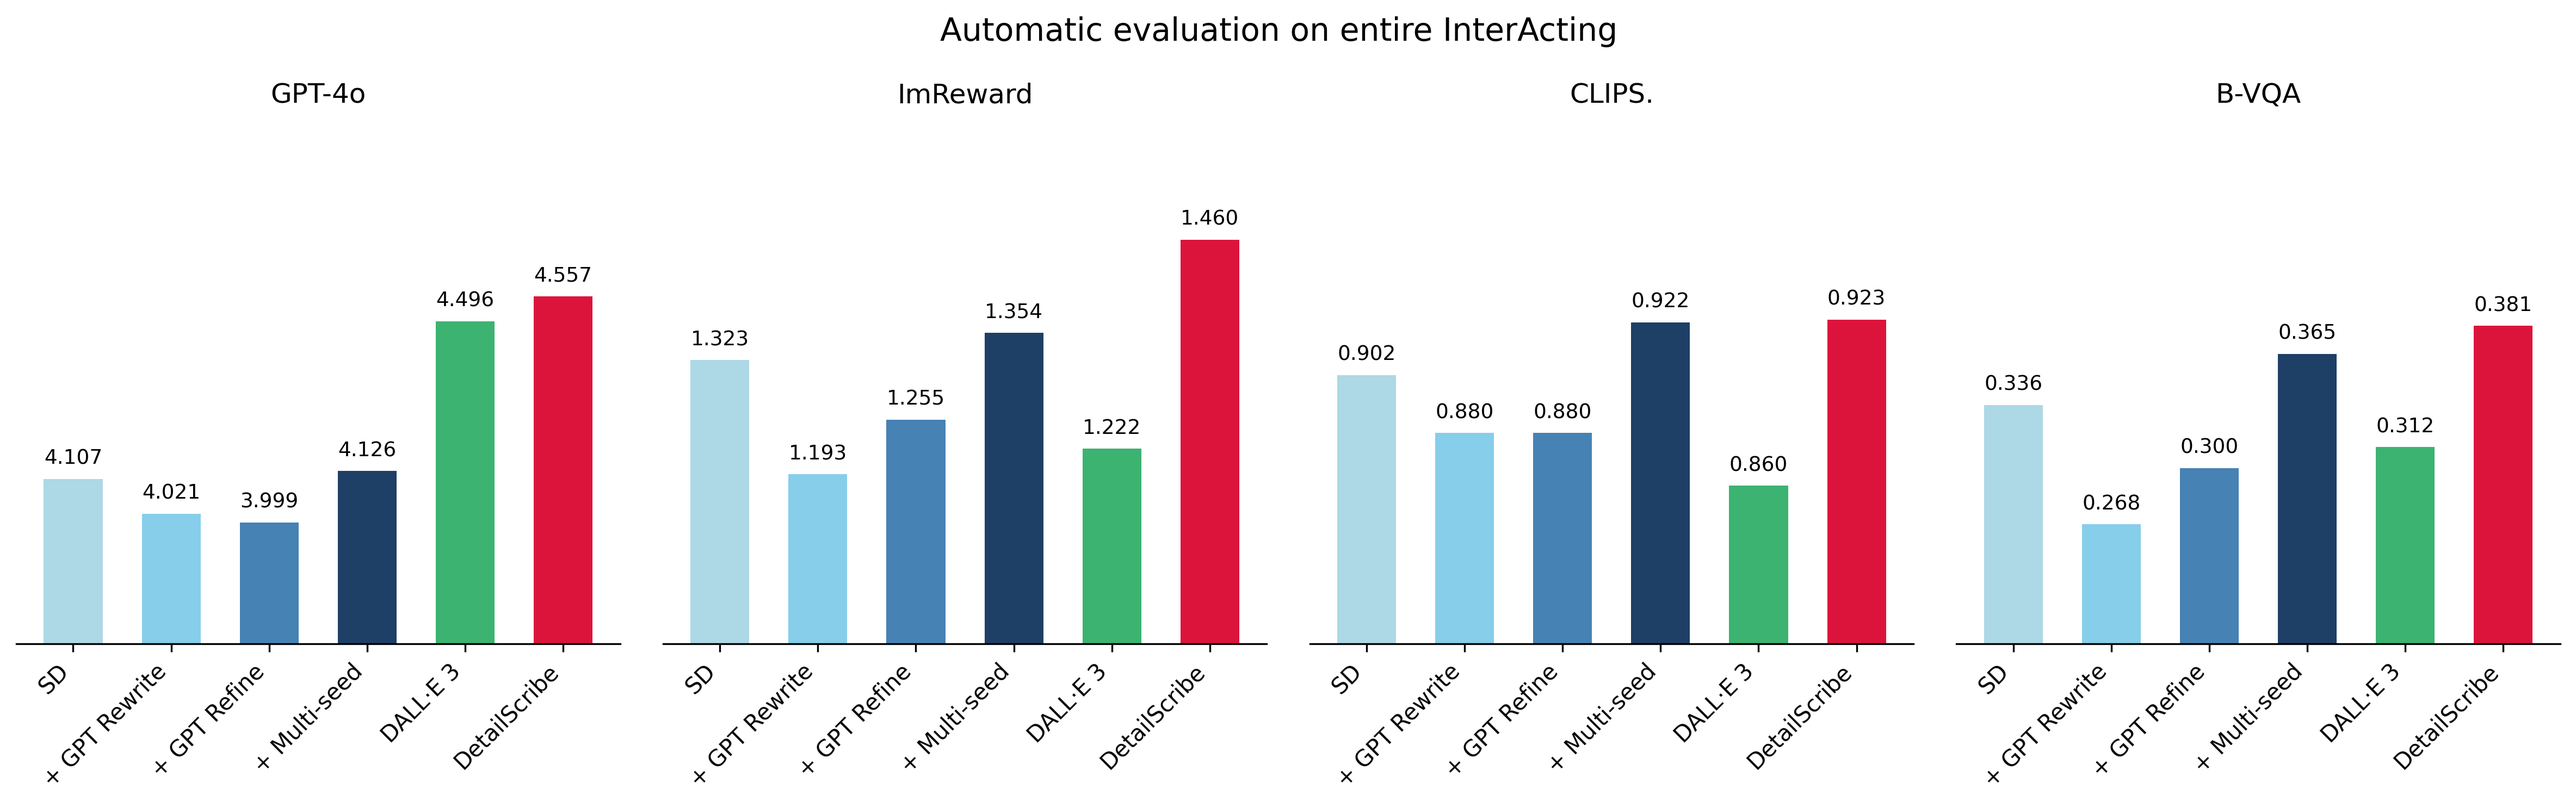
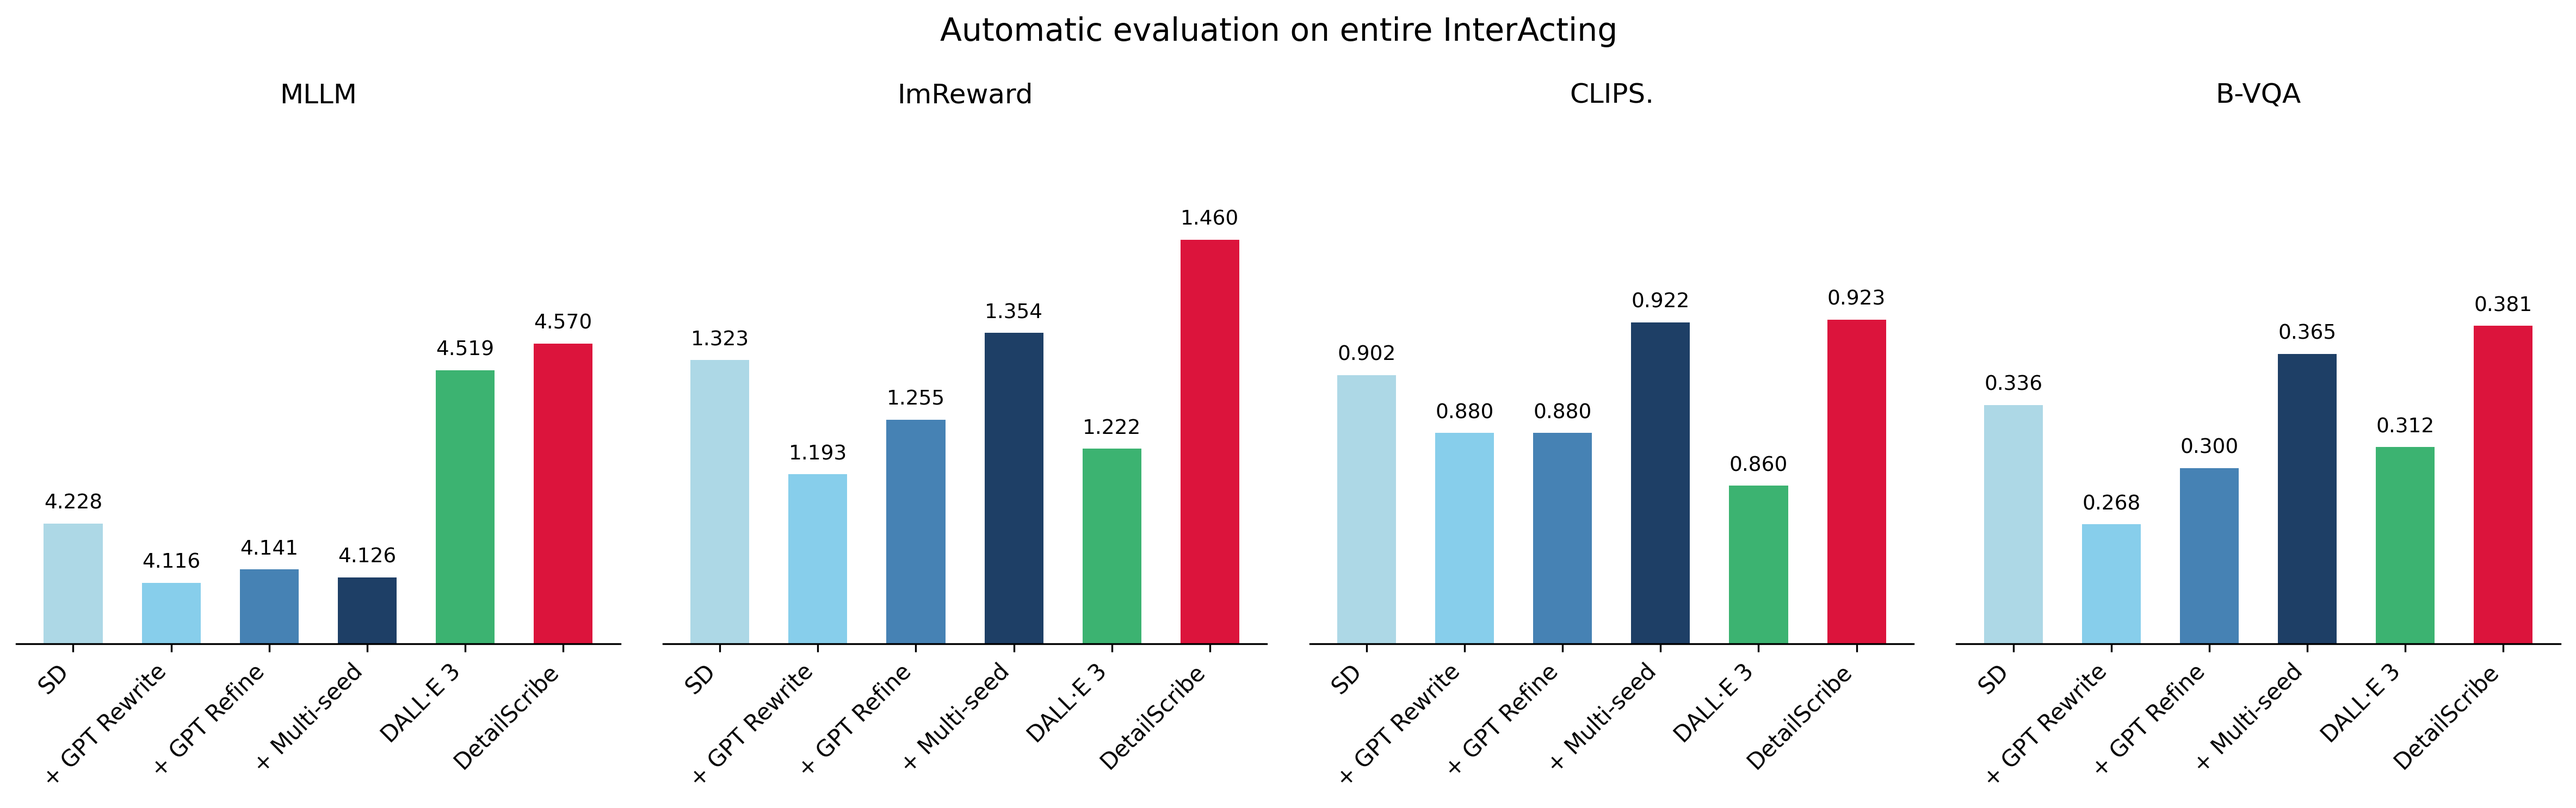
update

Changed region(s): [[0.0, 0.5572, 0.1552, 0.7429], [0.1552, 0.3405, 0.2484, 0.4643], [0.0931, 0.0929, 0.1552, 0.1238]]

diff --git a/index.html b/index.html
@@ -173,7 +173,7 @@
             Our approach, <strong>DetailScribe</strong>,
             built on Stable Diffusion 3.5,
             leverages LLMs to decompose interactions into finer-grained concepts,
-            uses a VLM to critique generated images,
+            uses a MLLM to critique generated images,
             and applies targeted interventions within the diffusion process in refinement.
             Automatic and human evaluations show significantly improved image quality,
             demonstrating the potential of enhanced inference strategies.
@@ -235,13 +235,13 @@
           <p>
             Due to the challenges in assessing whether an image aligns with the prompt's description,
             we primarily rely on human evaluation, referred to as the <strong>human Likert scale</strong>.
-            We further explored the use of VLMs and pre-trained metrics for automatic evaluation purposes
+            We further explored the use of MLLMs and pre-trained metrics for automatic evaluation purposes
             (<strong>Automatic evaluation.</strong>).
           </p>
           <p>
             We note that these evaluations are inherently more noisy,
             so we compared their agreement with human preferences on sampled image pairs generated by all models.
-            Overall, VLM evaluator achieves the highest agreement at 85.2%,
+            Overall, MLLM evaluator achieves the highest agreement at 85.2%,
             compared to the other metrics: ImageReward (73.6%),
             CLIPScore (70.4%), and BLIP-VQA (67.6%).
           </p>
@@ -290,7 +290,7 @@
         <figure style="margin-bottom: 2em">
             <img src="./static/images/Fig3.jpg" alt="DetailScribe-generated image gallery">
             <figcaption style="margin-top:1em">
-              <strong>Figure 3:</strong> A closer look to the VLM-based critique and prompt refinement.
+              <strong>Figure 3:</strong> A closer look to the MLLM-based critique and prompt refinement.
               Given the LLM-generated concept decomposition and an image generated using the user input,
               a vision-language model generates a critique of errors in the image, suggests corrections,
               and finally refines the prompt. This prompt will be used in a second-round diffusion process.
@@ -315,12 +315,12 @@
             Due to the scalability of high-quality human evaluation,
             we sampled 50 prompts from <strong>InterActing</strong> for both human evaluation and automatic evaluation,
             and compared the agreement in between.
-            Table 2 shows the average human/VLM likert scale (1 - 5) and pre-trained metrics on three scenarios of
+            Table 2 shows the average human/MLLM likert scale (1 - 5) and pre-trained metrics on three scenarios of
             sampled <strong>InterActing</strong> dataset.
           </p>
           <p>
             We report the human Likert scale (Human Evaluation),
-            VLM evaluation score (GPT-4o),
+            MLLM evaluation score (Qwen2.5-VL-32B),
             as well as ImageReward (ImReward), CLIPScore (CLIPS.) and BLIP-VQA (B-VQA) score.
 
           </p>
@@ -338,21 +338,66 @@
           </tr>
           <tr style="border-bottom: 1px solid #aaa;">
             <th></th>
-            <th>Human</th><th>GPT-4o</th><th>ImReward</th><th>CLIPS.</th><th>B-VQA</th>
-            <th>Human</th><th>GPT-4o</th><th>ImReward</th><th>CLIPS.</th><th>B-VQA</th>
-            <th>Human</th><th>GPT-4o</th><th>ImReward</th><th>CLIPS.</th><th>B-VQA</th>
+            <th>Human</th><th>MLLM</th><th>ImReward</th><th>CLIPS.</th><th>B-VQA</th>
+            <th>Human</th><th>MLLM</th><th>ImReward</th><th>CLIPS.</th><th>B-VQA</th>
+            <th>Human</th><th>MLLM</th><th>ImReward</th><th>CLIPS.</th><th>B-VQA</th>
           </tr>
         </thead>
         <tbody>
-          <tr><td><b>SD</b></td><td>3.360</td><td>4.800</td><td>1.657</td><td>0.971</td><td>0.366</td><td>3.583</td><td>4.867</td><td>1.415</td><td>0.898</td><td>0.379</td><td>3.225</td><td>4.500</td><td>1.171</td><td>0.894</td><td>0.306</td></tr>
-          <tr><td><b>+ GPT Rewrite</b></td><td>3.770</td><td>4.720</td><td>1.546</td><td>0.921</td><td>0.245</td><td>3.167</td><td>4.467</td><td>1.283</td><td>0.867</td><td>0.325</td><td>3.275</td><td>4.600</td><td>1.101</td><td>0.890</td><td>0.292</td></tr>
-          <tr><td><b>+ GPT Refine</b></td><td>3.450</td><td>4.480</td><td>1.524</td><td>0.951</td><td>0.290</td><td>3.667</td><td>4.933</td><td>1.390</td><td>0.889</td><td>0.389</td><td>3.175</td><td>3.800</td><td>1.022</td><td>0.858</td><td>0.292</td></tr>
-          <tr><td><b>+ Multi-seed</b></td><td>3.270</td><td>4.760</td><td>1.718</td><td>0.985</td><td>0.434</td><td>3.650</td><td>4.867</td><td>1.538</td><td>0.912</td><td>0.423</td><td>3.375</td><td>4.400</td><td>1.149</td><td>0.903</td><td>0.302</td></tr>
-          <tr><td><b>DALL·E 3</b></td><td>3.940</td><td>4.760</td><td>1.535</td><td>0.880</td><td>0.226</td><td>3.433</td><td>4.933</td><td>1.382</td><td>0.838</td><td>0.367</td><td>3.775</td><td><b>4.900</b></td><td>1.111</td><td>0.813</td><td>0.286</td></tr>
-          <tr><td><b>DetailScribe</b></td><td><b>4.280</b></td><td><b>4.960</b></td><td><b>1.761</b></td><td><b>0.998</b></td><td><b>0.449</b></td>
-          <td><b>4.283</b></td><td><b>5.000</b></td><td><b>1.545</b></td><td><b>0.923</b></td><td><b>0.485</b></td>
-          <td><b>3.800</b></td><td>4.800</td><td><b>1.326</b></td><td><b>0.907</b></td><td><b>0.343</b></td>
-          </tr>
+        <tr>
+        <td><b>SD</b></td>
+        <!-- Functional -->
+        <td>3.360</td><td>4.480</td><td>1.657</td><td>0.971</td><td>0.366</td>
+        <!-- Multi-subject -->
+        <td>3.225</td><td>3.800</td><td>1.171</td><td>0.894</td><td>0.306</td>
+        <!-- Compositional -->
+        <td>3.583</td><td>4.867</td><td>1.415</td><td>0.898</td><td>0.379</td>
+      </tr>
+      <tr>
+        <td><b>+ GPT Rewrite</b></td>
+        <!-- Functional -->
+        <td>3.770</td><td>4.440</td><td>1.546</td><td>0.921</td><td>0.245</td>
+        <!-- Multi-subject -->
+        <td>3.275</td><td>3.900</td><td>1.101</td><td>0.890</td><td>0.292</td>
+        <!-- Compositional -->
+        <td>3.167</td><td>4.467</td><td>1.283</td><td>0.867</td><td>0.325</td>
+      </tr>
+      <tr>
+        <td><b>+ GPT Refine</b></td>
+        <!-- Functional -->
+        <td>3.450</td><td>4.600</td><td>1.524</td><td>0.951</td><td>0.290</td>
+        <!-- Multi-subject -->
+        <td>3.175</td><td>3.600</td><td>1.022</td><td>0.858</td><td>0.292</td>
+        <!-- Compositional -->
+        <td>3.667</td><td>4.800</td><td>1.390</td><td>0.889</td><td>0.389</td>
+      </tr>
+      <tr>
+        <td><b>+ Inf Scale</b></td>
+        <!-- Functional -->
+        <td>3.270</td><td>4.560</td><td>1.718</td><td>0.985</td><td>0.434</td>
+        <!-- Multi-subject -->
+        <td>3.375</td><td>4.400</td><td>1.149</td><td>0.903</td><td>0.302</td>
+        <!-- Compositional -->
+        <td>3.650</td><td>4.800</td><td>1.538</td><td>0.912</td><td>0.423</td>
+      </tr>
+      <tr>
+        <td><b>DALL·E 3</b></td>
+        <!-- Functional -->
+        <td>3.940</td><td>4.680</td><td>1.535</td><td>0.880</td><td>0.226</td>
+        <!-- Multi-subject -->
+        <td>3.775</td><td><b>4.700</b></td><td>1.111</td><td>0.813</td><td>0.286</td>
+        <!-- Compositional -->
+        <td>3.433</td><td>4.867</td><td>1.382</td><td>0.838</td><td>0.367</td>
+      </tr>
+      <tr>
+        <td><b>DetailScribe</b></td>
+        <!-- Functional -->
+        <td><b>4.280</b></td><td><b>4.880</b></td><td><b>1.761</b></td><td><b>0.998</b></td><td><b>0.449</b></td>
+        <!-- Multi-subject -->
+        <td><b>3.800</b></td><td>4.600</td><td><b>1.326</b></td><td><b>0.907</b></td><td><b>0.343</b></td>
+        <!-- Compositional -->
+        <td><b>4.283</b></td><td><b>5.000</b></td><td><b>1.545</b></td><td><b>0.923</b></td><td><b>0.485</b></td>
+      </tr>
         <tr style="border-top: 2px solid black;">
         </tbody>
       </table>
@@ -362,7 +407,7 @@
     <h3 class="title is-4"> </h3>
     <div class="content has-text-justified">
       <p>
-        According to the above evaluation results, VLM evaluator achieves the highest agreement to human evaluation at 85.2%,
+        According to the above evaluation results, MLLM evaluator achieves the highest agreement to human evaluation at 87.6%,
         compared to the other metrics: ImageReward (73.6%), CLIPScore (70.4%),
         and BLIP-VQA (67.6%).
       </p>
